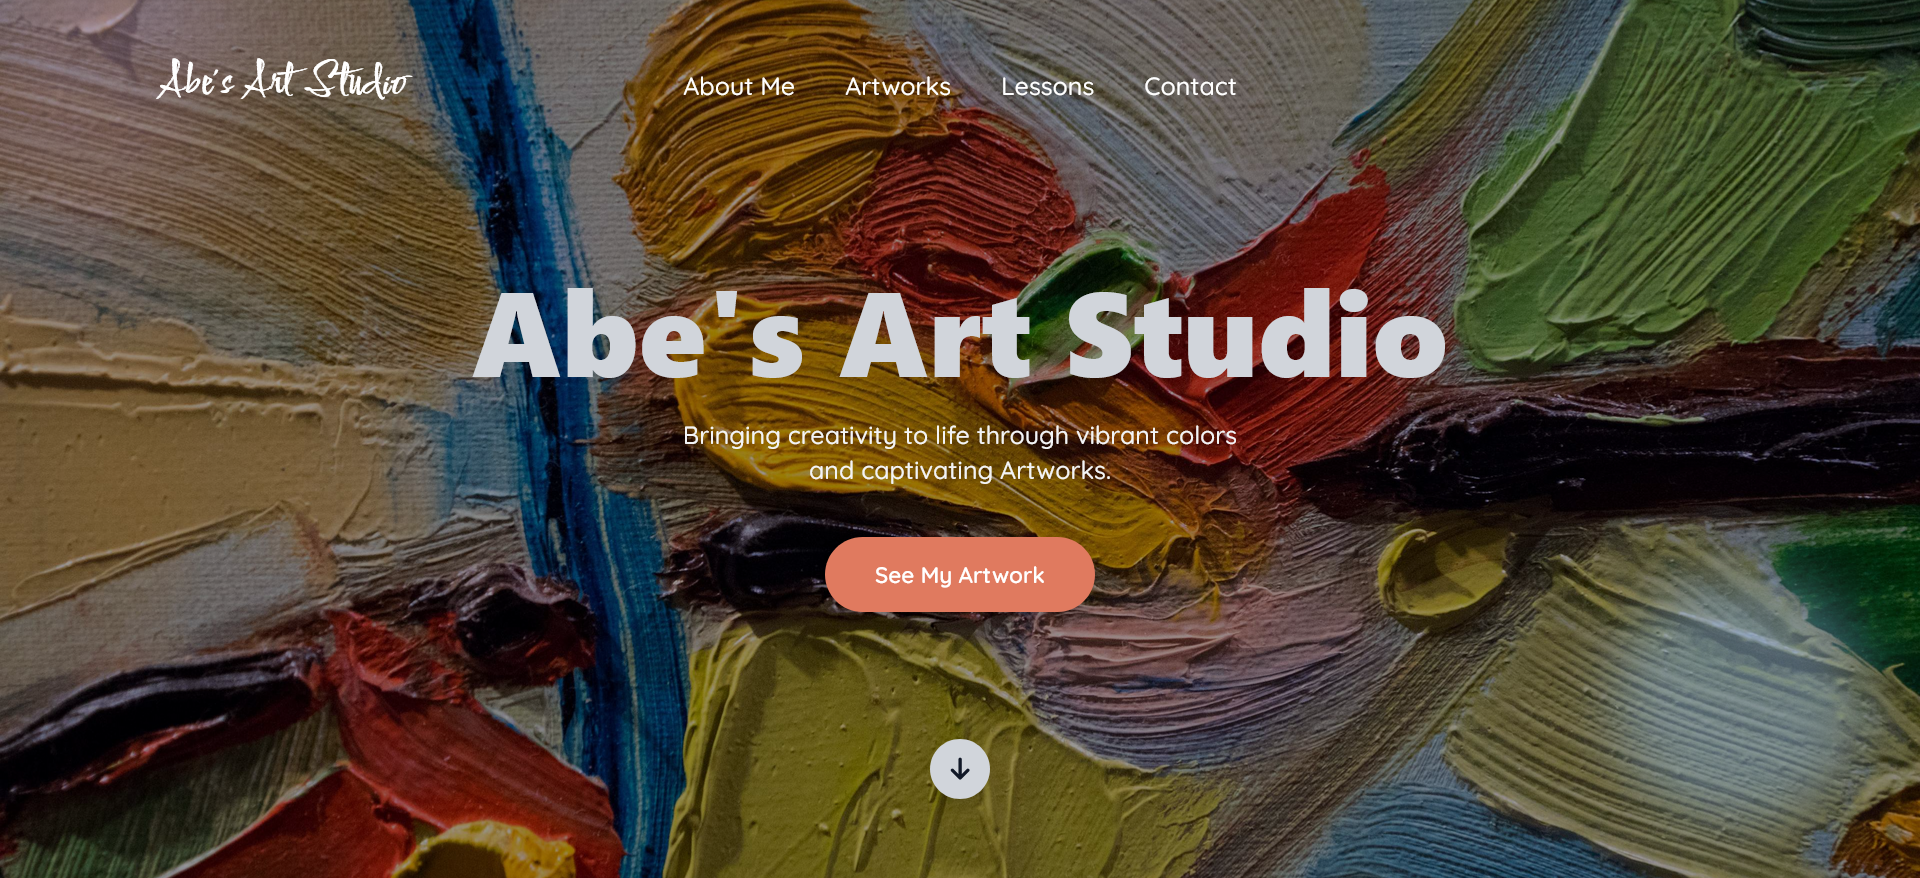
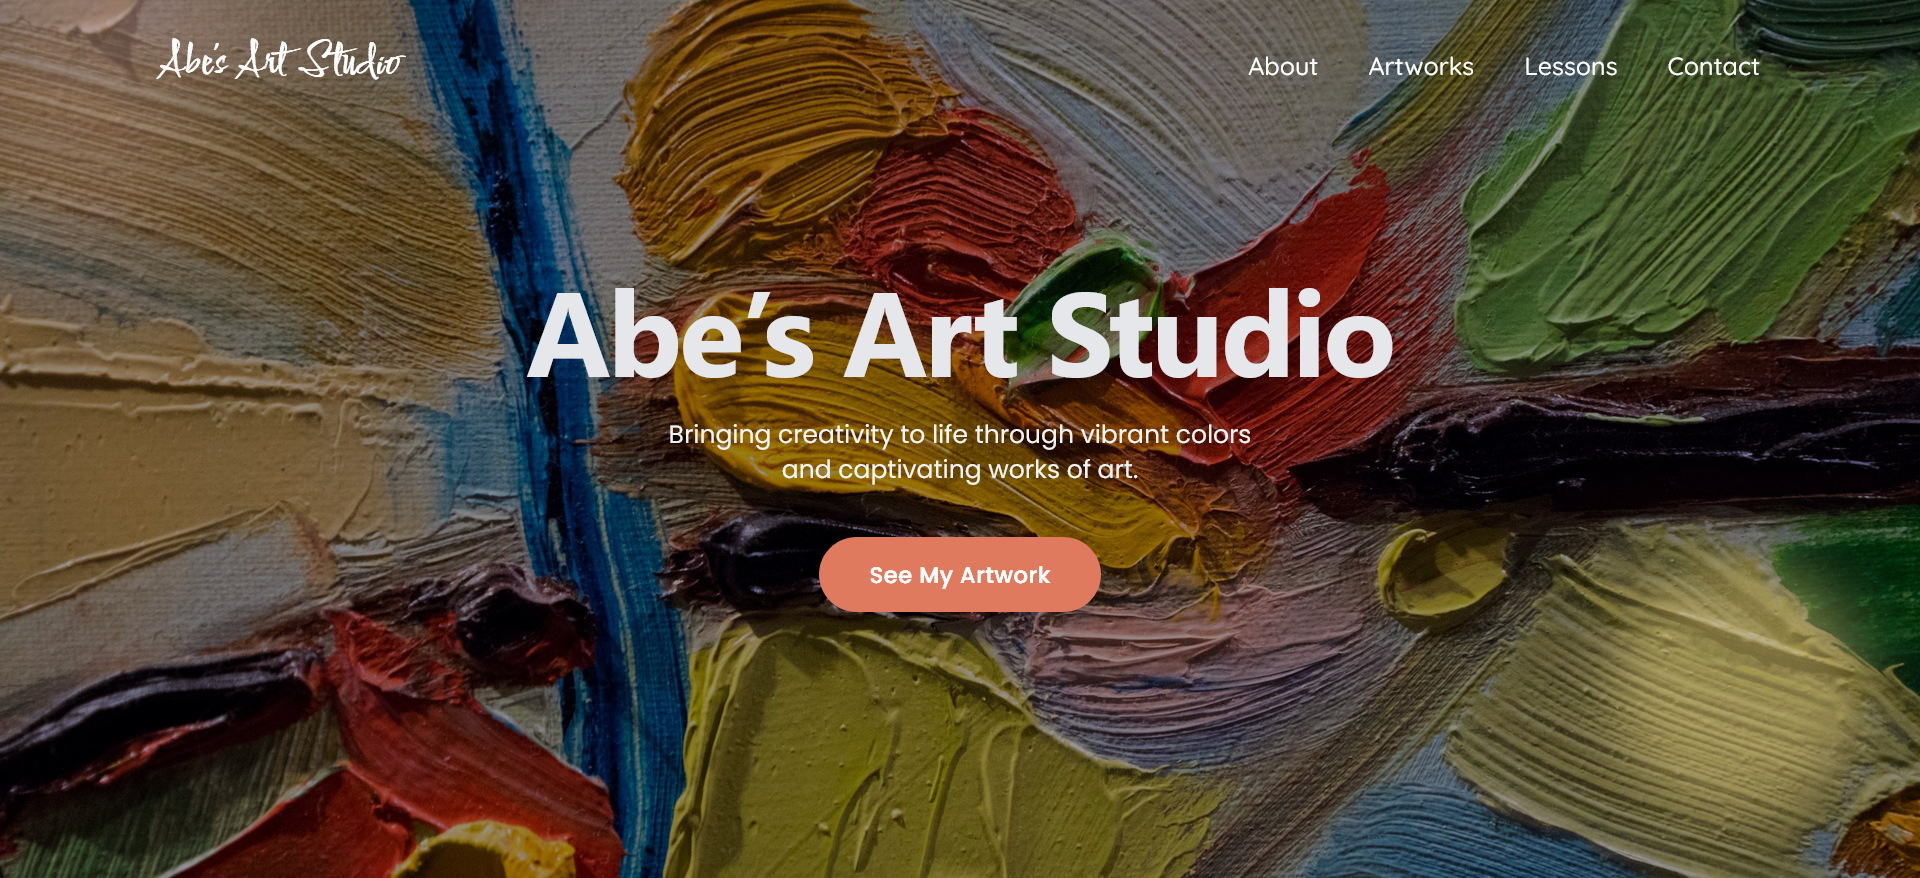
updated portfolio experience and images

diff --git a/src/Components/WebDev.js b/src/Components/WebDev.js
@@ -17,11 +17,11 @@ const WebDev = () => {
       link: "https://www.webdev.daranewso.me",
     },   
     {
-      title: "School Website",
+      title: "Scoil Bhreac Chluain",
       description:
-        "Website for a primary school, showcasing events, announcements, and resources.",
+        "Website for Scoil Bhreac Chluain primary school, showcasing events, announcements, and resources.",
       image: school,
-      link: "https://www.scoil-bhreac-chluain.daranewso.me/",
+      link: "https://www.scoilbhreacchluain.ie",
     },
     {
       title: "Direct Drywall Website",
@@ -31,9 +31,9 @@ const WebDev = () => {
       link: "https://newsyd04.github.io/direct-drywall-site/",
     },
     {
-      title: "Local Artist Portfolio Website",
+      title: "Abe's Art Studio",
       description:
-        "A website for a local artist, showcasing pieces and providing contact and lesson details.",
+        "Website for a local artist, showcasing pieces and providing contact and lesson details.",
       image: abe,
       link: "https://newsyd04.github.io/abes-art-site/",
     },
@@ -45,14 +45,14 @@ const WebDev = () => {
       link: "https://newsyd04.github.io/sp-trucking-site/",
     },
     {
-      title: "Kerry BER Website",
+      title: "Kerry BER",
       description:
         "A website for Kerry BER, a certified domestic BER assessor business.",
       image: kerryber,
       link: "https://kerryber.ie",
     },
     {
-      title: "Local Photographer Portfolio Website",
+      title: "Secrets of Flowers",
       description:
         "A website for a local photographer, showcasing their favourite pieces and providing contact and sales details.",
       image: sof,
@@ -95,7 +95,7 @@ const WebDev = () => {
                 target="_blank"
                 rel="noopener noreferrer"
               >
-                View Project
+                View Website &rarr;
               </a>
             </div>
           ))}

diff --git a/src/Components/Experience.js b/src/Components/Experience.js
@@ -6,7 +6,10 @@ const Timeline = () => {
       title: "Internship at Irish Department of Justice",
       date: "Jan 2025 - May 2025",
       role: "Software Engineer",
-      description: ["Internship beginning in early 2025."],
+      description: [
+        "Built an AI-powered teaching assistant that speaks and teaches in the style of real lecturers using large language model fine-tuning.",
+        "Created a full-stack web app for the assistant that enabled educational dialogue through combining fine-tuned LLMs with contextual retrieval from lecture slides and online sources.",
+      ],
     },
     {
       title: "Internship at Becton, Dickinson and Company",
